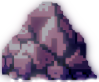
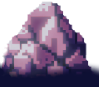
Update stone1 texture and position

diff --git a/Obstacle.py b/Obstacle.py
@@ -12,7 +12,7 @@ class Obstacle(pygame.sprite.Sprite):
     def load(self):
         if self.type == 'stone1':
             image = pygame.image.load('images/stone1.png').convert_alpha()
-            y_pos = self.screen_size[1] * 0.72
+            y_pos = self.screen_size[1] * 0.74
         else:
             image = pygame.image.load('images/stone2.png').convert_alpha()
             y_pos = self.screen_size[1] * 0.49
